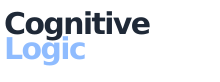
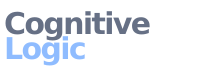
Improve email wordmark visibility and sizing

Changed region(s): [[0.0, 0.122, 0.6818, 0.5122]]

diff --git a/signature/index.html b/signature/index.html
@@ -33,8 +33,8 @@
       <img
         src="https://cognitivelogic.it/img/wordmark-cognitivelogic-email.png"
         alt="Cognitive Logic"
-        width="110"
-        style="display:block;width:110px;height:auto;border:0;">
+        width="145"
+        style="display:block;width:145px;height:auto;border:0;">
     </a>
   </div>
 
